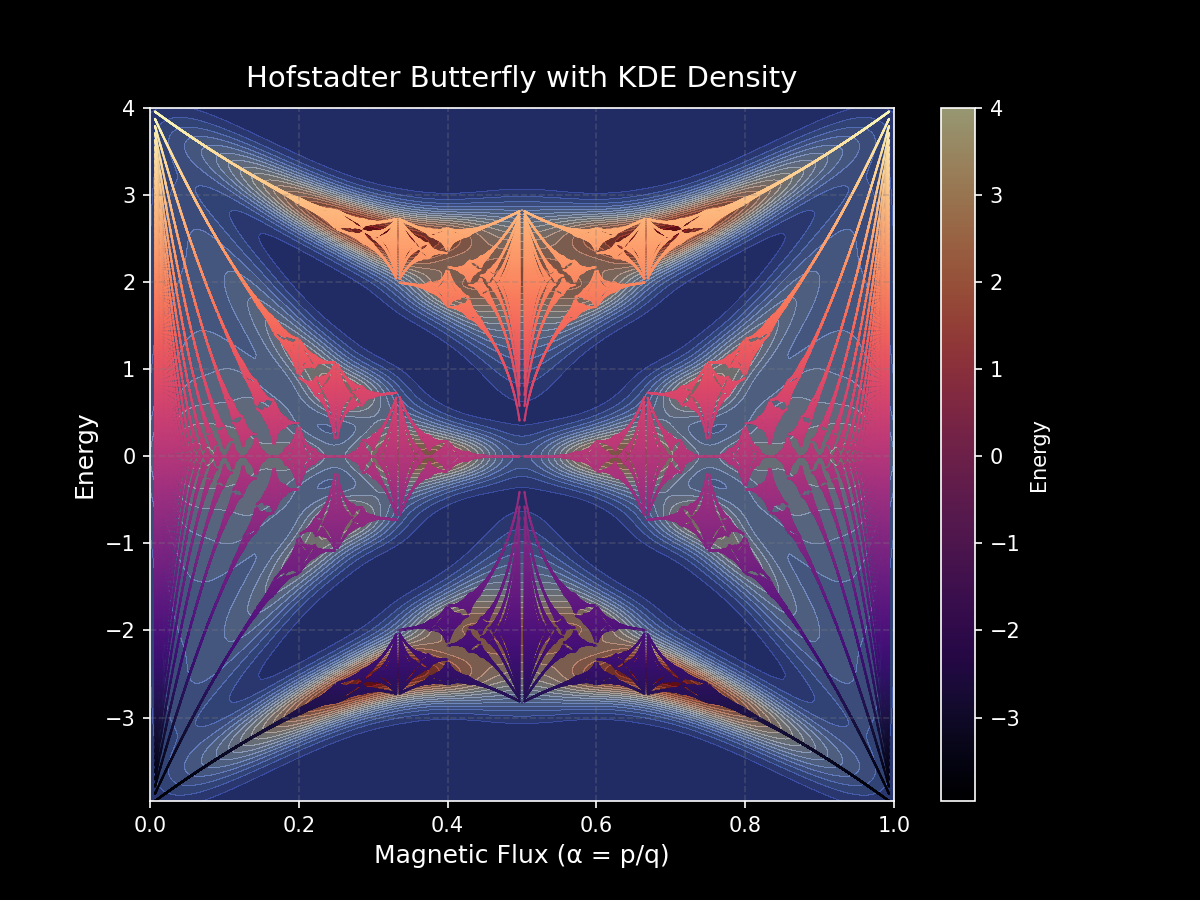
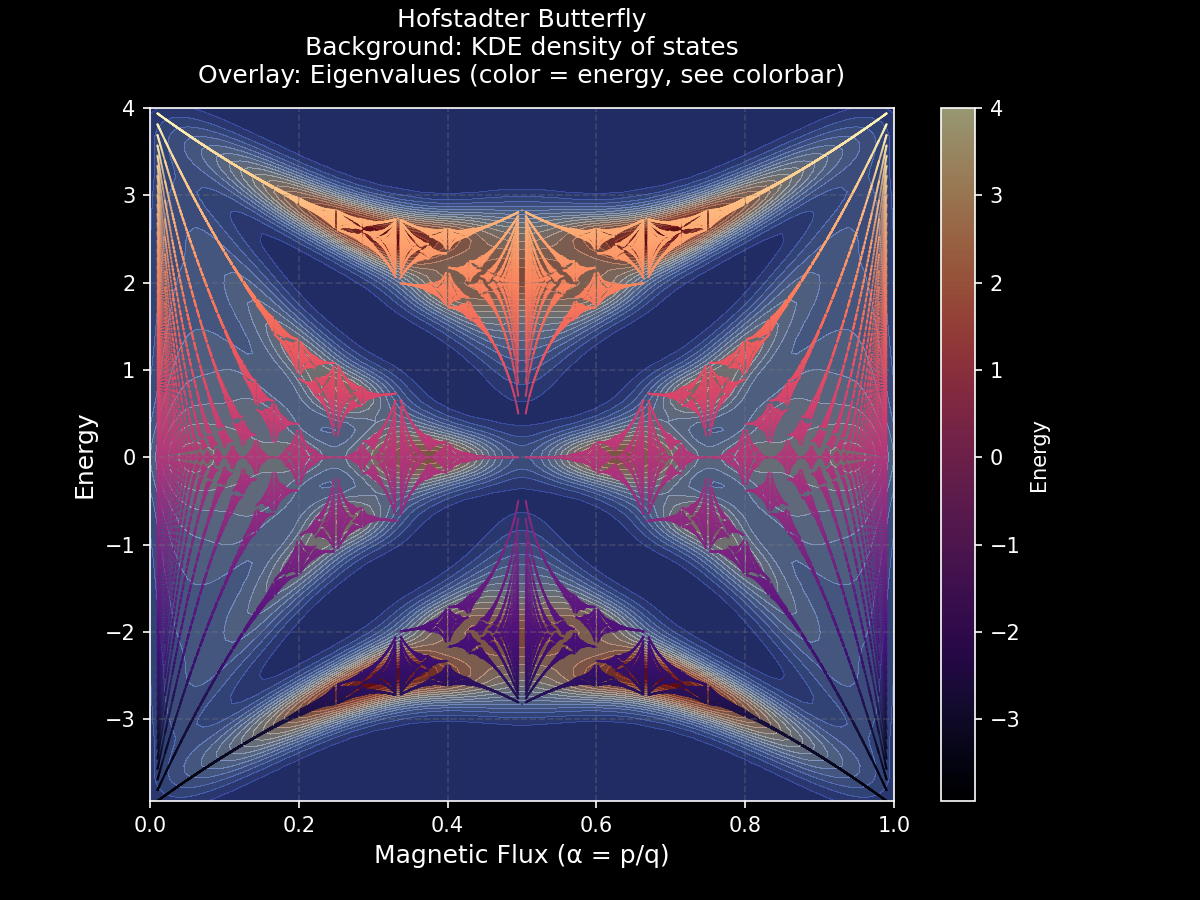
modified:   Butterfly.png modified:   hofstadter_butterfly.py

diff --git a/hofstadter_butterfly.py b/hofstadter_butterfly.py
@@ -59,11 +59,15 @@ def generate_hofstadter_spectrum(max_q):
 
 
 def plot_hofstadter_butterfly(alphas, energies, cfg: Config):
-    """Plot Hofstadter butterfly from given spectrum arrays."""
+    """
+    Plot Hofstadter butterfly:
+    - Background = KDE density of states (no colorbar)
+    - Overlay = Eigenvalues colored by energy (with colorbar)
+    """
     plt.style.use("dark_background")
     plt.figure(figsize=cfg.figsize, dpi=cfg.dpi)
 
-    # KDE density
+    # KDE density (background shading)
     data = np.vstack([alphas, energies])
     kde = gaussian_kde(data, bw_method=cfg.bw_method)
     x_grid = np.linspace(0, 1, cfg.grid_res)
@@ -72,17 +76,25 @@ def plot_hofstadter_butterfly(alphas, energies, cfg: Config):
     Z = kde(np.vstack([X.ravel(), Y.ravel()])).reshape(X.shape)
     plt.contourf(X, Y, Z, levels=20, cmap=cfg.cmap_kde, alpha=0.5)
 
-    # Scatter
-    plt.scatter(alphas, energies, s=1, c=energies,
-                cmap=cfg.cmap_scatter, alpha=0.6, edgecolors="none")
+    # Eigenvalue scatter overlay
+    sc = plt.scatter(alphas, energies, s=1, c=energies,
+                     cmap=cfg.cmap_scatter, alpha=0.6, edgecolors="none")
 
+    # Axis and labels
     plt.gca().set_aspect("auto")
     plt.xlabel("Magnetic Flux (α = p/q)", fontsize=12, color="white")
     plt.ylabel("Energy", fontsize=12, color="white")
-    plt.title("Hofstadter Butterfly with KDE Density",
-              fontsize=14, color="white", pad=10)
+    plt.title(
+        "Hofstadter Butterfly\n"
+        "Background: KDE density of states\n"
+        "Overlay: Eigenvalues (color = energy, see colorbar)",
+        fontsize=12, color="white", pad=12
+    )
     plt.grid(True, linestyle="--", alpha=0.3, color="gray")
-    plt.colorbar(label="Energy")
+
+    # Single colorbar for scatter (energy)
+    plt.colorbar(sc, label="Energy")
+
     plt.show()
 
 
